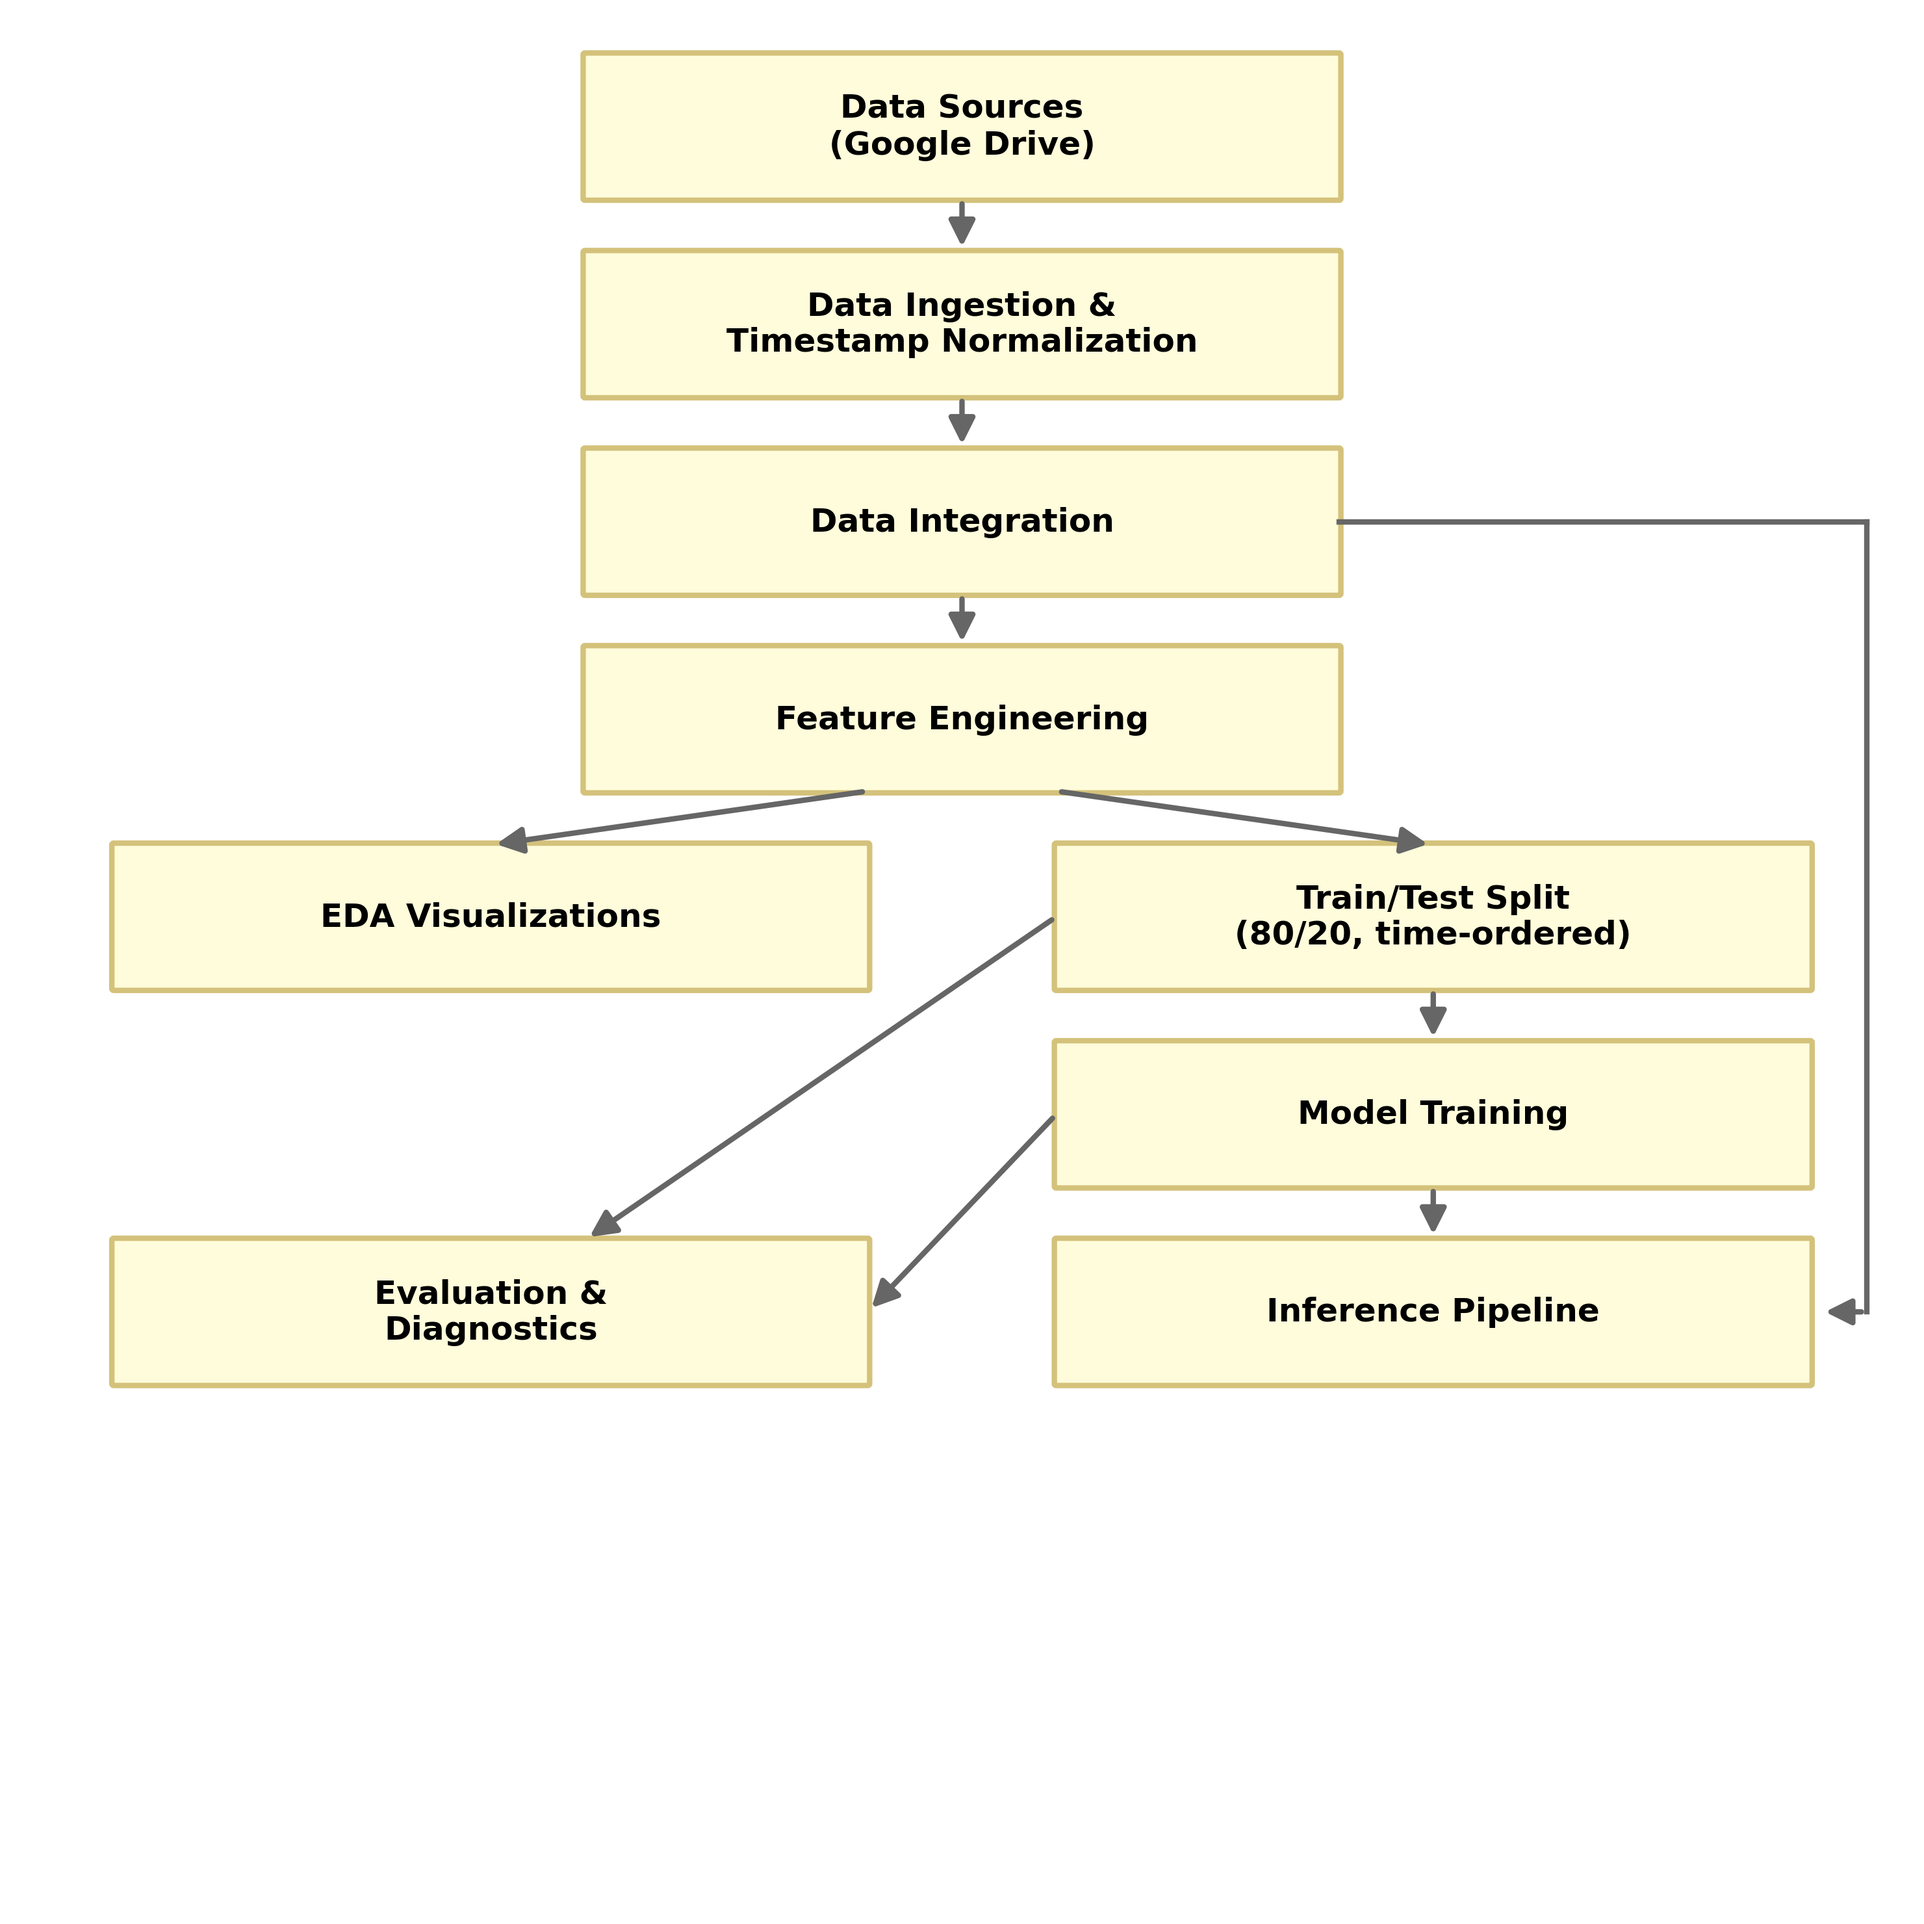
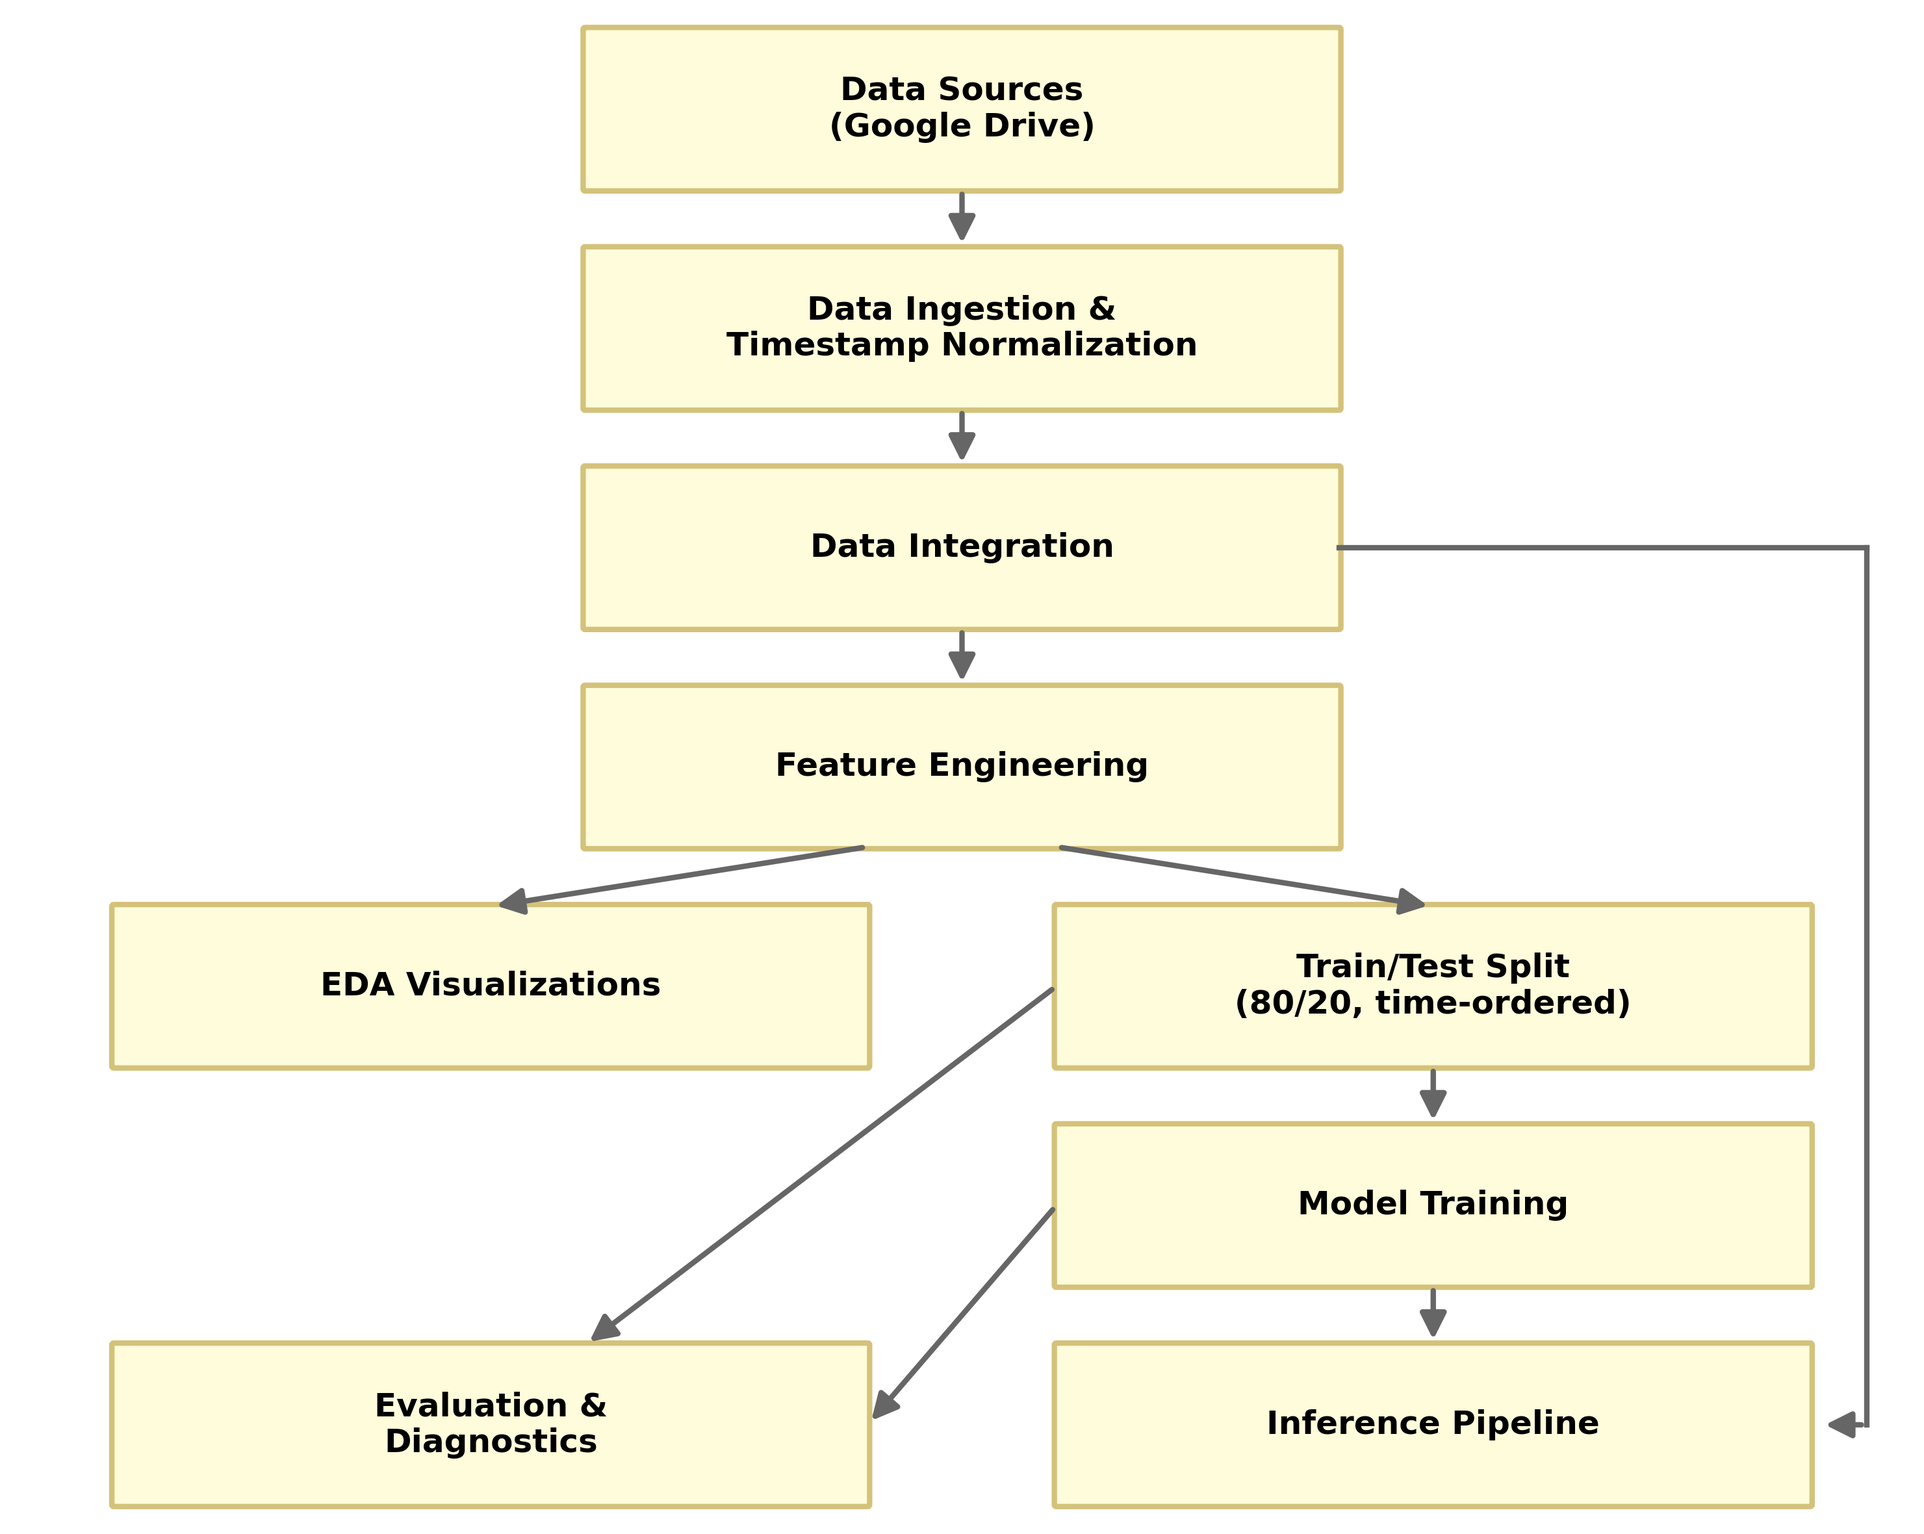
Tighten crop on ML pipeline diagram by adjusting matplotlib y-axis limits

diff --git a/generate_ml_pipeline_diagram.py b/generate_ml_pipeline_diagram.py
@@ -31,9 +31,11 @@ def draw_arrow(ax, start, end, shrink=0):
     ax.add_patch(arrow)
 
 def create_diagram():
-    fig, ax = plt.subplots(figsize=(10, 10))
+    # Adjust figsize to reduce vertical space (height is smaller relative to width)
+    fig, ax = plt.subplots(figsize=(10, 8))
     ax.set_xlim(0, 100)
-    ax.set_ylim(-5, 100)
+    # Adjust y limits to be tighter around the lowest blocks (y=20, so lowest is y=20)
+    ax.set_ylim(23.5, 98.5)
     ax.axis('off')
 
     # Dimensions for boxes
@@ -116,7 +118,7 @@ def create_diagram():
     draw_arrow(ax, (98, end_H_right[1]), (end_H_right[0] + 0.5, end_H_right[1]), shrink=2)
 
     plt.tight_layout()
-    plt.savefig('ml_pipeline_architecture.png', bbox_inches='tight')
+    plt.savefig('ml_pipeline_architecture.png', bbox_inches='tight', pad_inches=0.1)
 
 if __name__ == '__main__':
     create_diagram()
